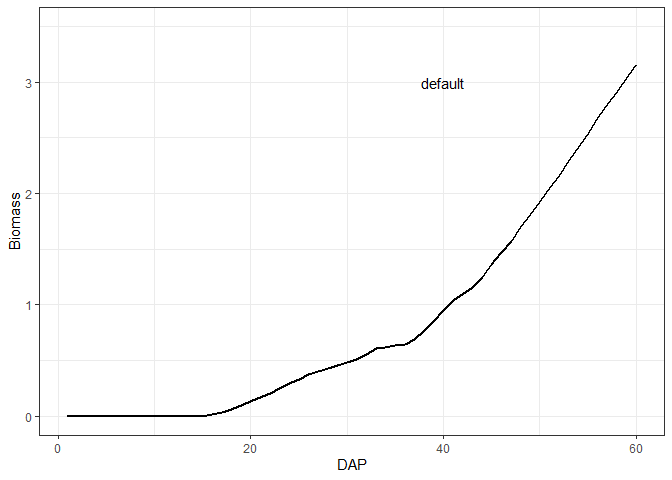
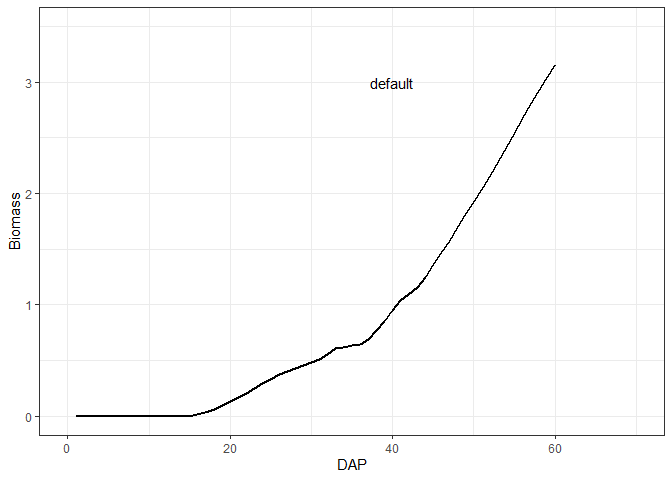
cyclelength adatation for gdd

diff --git a/README.md b/README.md
@@ -180,12 +180,13 @@ Let us first run the simulation with the default parameters for spinach:
 ``` r
 default <- aquacrop_wrapper(param_values = list(),
                situation = "S_01",
+               cycle_length = c("2019-03-15", 70),
                model_options = list(AQ = AQ, defaultpar = Spinach, output = "def"))
 ggplot(mapping = aes(x=DAP, y=Biomass)) +
   ylim(0, 3.5) +
   geom_line(data = default, color = 'black', linewidth = 1) +
   geom_text(mapping = aes(x=40, y=3, label = 'default'), color = 'black') +
-  
+  xlim(0, 70) +
   theme_bw()
 ```
 
@@ -205,6 +206,7 @@ ggplot(mapping = aes(x=DAP, y=Biomass)) +
   geom_text(mapping = aes(x=40, y=3, label = 'default'), color = 'black') +
   geom_line(data = modified, color = 'blue', linewidth = 1) +
   geom_text(mapping = aes(x=40, y=2.8, label = 'modified'), color = 'blue') +
+  xlim(0, 70) +
   theme_bw()
 ```
 
@@ -213,7 +215,7 @@ ggplot(mapping = aes(x=DAP, y=Biomass)) +
 ## Roadmap
 
 - [x] definition of the AquaCrop wrapper function `aquacrop_wrapper`  
-- [ ] allow option to run AquaCrop on growing degree days instead of
+- [x] allow option to run AquaCrop on growing degree days instead of
   days  
 - [ ] include code for running sensitivity analysis using the morris
   method
